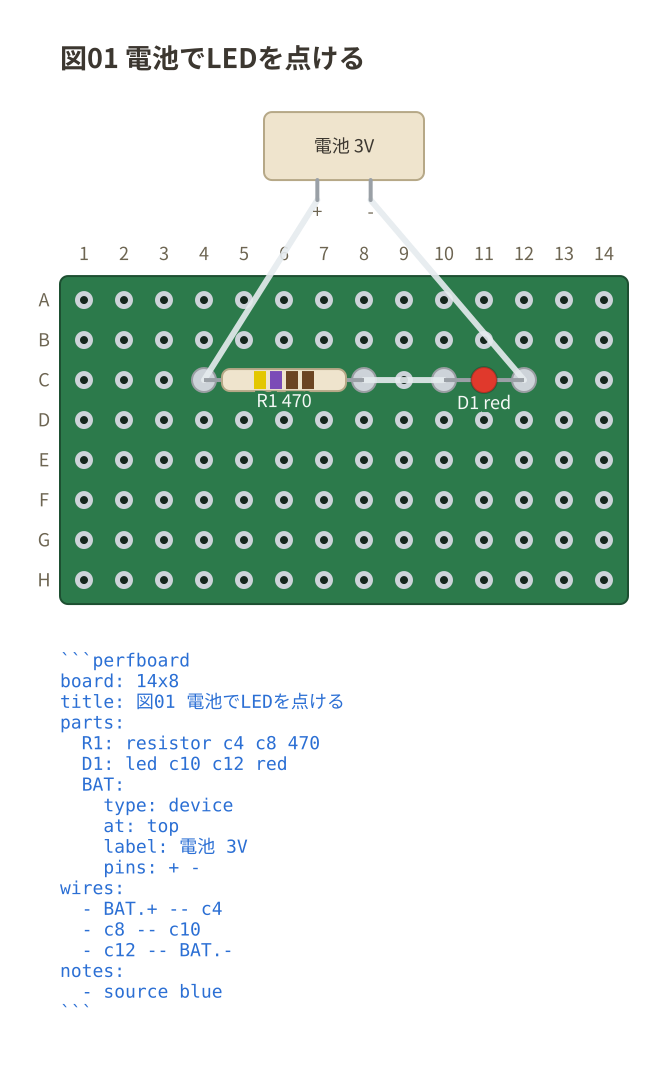
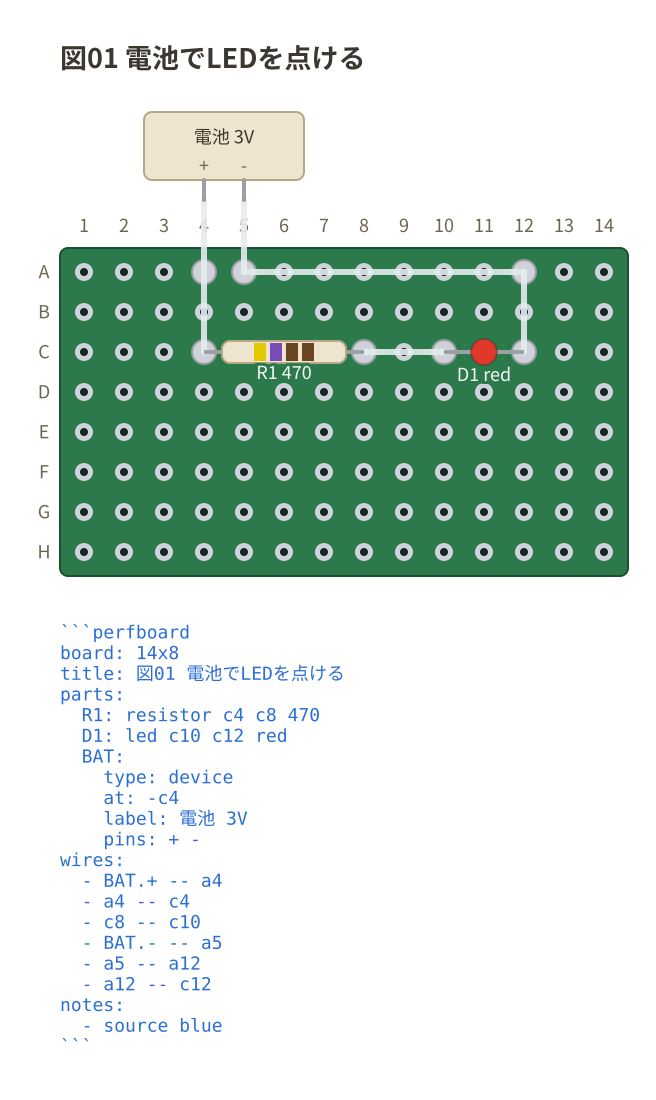
feat(perfboard-fence): 機器の足を穴の格子に載せ、足の名前を箱の内側に書く
- **番地で置いた機器の足は穴の格子に載る。** 1 本目が書いた番地の列、次が
  1 穴どなり…と並び、箱はその足の上に載る。こうすると**「その足のいちばん近い
  穴」が迷いなく決まる**ので、機器の足からまず真下 (真上) の穴へ落として、
  そこから板の上を配線できる (帯に並べたときは箱の幅で割るので穴と揃わない)
- **足の名前は箱の内側**に書く。外に出すと板の列番号や配線に重なり、
  どの足の名前なのかも遠くなる。機器の名前は足の名前とぶつからない側へ寄せた
- 例の機器も番地で置き直し、足からまず最寄りの穴へ落とす形にした

🤖 Generated with [Claude Code](https://claude.com/claude-code)

Changed region(s): [[0.061, 0.0929, 0.9756, 0.9597], [0.0915, 0.031, 0.5488, 0.0619], [0.061, 0.3096, 0.0915, 0.4334]]

diff --git a/packages/perfboard-fence/src/core/render/devices.ts b/packages/perfboard-fence/src/core/render/devices.ts
@@ -60,13 +60,19 @@ export function layoutDevices(devices: readonly DeviceSpec[], layout: Layout): D
     const height = DEVICE_BOX_HEIGHT;
     // 板より上にあるなら足は下へ、下にあるなら足は上へ (板の側へ出す)。
     const above = at.y < layout.board.y + layout.board.height / 2;
-    const box: Band = { x: at.x, y: at.y, width, height };
+
+    // **足は穴の格子に載せる。** 1 本目が書いた番地の列に来て、そこから 1 穴ずつ。
+    // こうすると「その足のいちばん近い穴」が迷いなく決まり、配線を穴の番地で
+    // 書ける (帯に並べたときは箱の幅で割るので、穴とは揃わない)。
+    const columns = device.pins.map((_, pin) => layout.colX(address.col + pin));
+    const first = columns[0] ?? at.x;
+    const last = columns[columns.length - 1] ?? at.x;
+    const box: Band = { x: (first + last) / 2 - width / 2, y: at.y, width, height };
     const tip = above ? box.y + box.height + LEG : box.y - LEG;
-    const step = width / (device.pins.length + 1);
     placed.push({
       device: { ...device, at: above ? 'top' : 'bottom' },
       box,
-      pins: new Map(device.pins.map((name, pin) => [name, { x: box.x + step * (pin + 1), y: tip }])),
+      pins: new Map(device.pins.map((name, pin) => [name, { x: columns[pin] ?? at.x, y: tip }])),
     });
   }
 
@@ -126,22 +132,26 @@ function renderDevice(placed: PlacedDevice, theme: Theme): string {
     fill: theme.palette.body, stroke: theme.palette.bodyEdge, 'stroke-width': 1,
   });
 
-  // 足は箱の縁から出て、名前はその先の外側。**箱の中に書くと題と重なる。**
+  // 足は箱の縁から出る。**名前は箱の内側、足の付け根**に書く — 外側に書くと
+  // 板の列番号や配線に重なり、どの足の名前なのかも遠くなる。
   const edge = top ? box.y + box.height : box.y;
+  const size = theme.metrics.textSize;
+  const nameY = top ? edge - 4 : edge + size;
   const legs = [...placed.pins.entries()]
     .map(([name, point]) => element('line', {
       x1: num(point.x), y1: num(edge), x2: num(point.x), y2: num(point.y),
       stroke: theme.palette.lead, 'stroke-width': 2, 'stroke-linecap': 'round',
-    }) + svgText(point.x, point.y + (top ? PIN_LABEL - 3 : -4), name, {
+    }) + svgText(point.x, nameY, name, {
       fill: theme.palette.label,
-      'font-size': num(theme.metrics.textSize),
+      'font-size': num(size),
     }))
     .join('');
 
-  const label = fit(device.label, box.width / theme.metrics.textSize);
-  const caption = svgText(box.x + box.width / 2, box.y + box.height / 2, label, {
+  // 機器の名前は足の名前とぶつからない側へ寄せる (上の機器なら箱の上寄り)。
+  const label = fit(device.label, box.width / size);
+  const caption = svgText(box.x + box.width / 2, box.y + box.height / 2 + (top ? -size * 0.5 : size * 0.9), label, {
     fill: theme.palette.caption,
-    'font-size': num(theme.metrics.textSize),
+    'font-size': num(size),
     'dominant-baseline': 'middle',
   });
 

diff --git a/packages/perfboard-fence/src/core/render/devices.test.ts b/packages/perfboard-fence/src/core/render/devices.test.ts
@@ -94,7 +94,7 @@ describe('renderDevices', () => {
 });
 
 describe('番地で置いた機器', () => {
-  test('puts the box where it was written, not in the band', () => {
+  test('puts the device where it was written, not in the band', () => {
     // 帯に並べると、書いた人が置きたかった場所と関係なく散る。
     const board = createBoard({ cols: 16, rows: 8 });
     const layout = createLayout(board, { deviceTop: false, deviceBottom: false });
@@ -102,8 +102,13 @@ describe('番地で置いた機器', () => {
     const at = layout.point(parseAddress('-c2')!);
 
     expect(placed).toHaveLength(1);
-    expect(placed[0]?.box.x).toBe(at.x);
     expect(placed[0]?.box.y).toBe(at.y);
+    // **足は穴の格子に載る。** 1 本目が書いた番地の列、次は 1 穴どなり。
+    expect(placed[0]?.pins.get('sig')?.x).toBe(layout.colX(2));
+    expect(placed[0]?.pins.get('gnd')?.x).toBe(layout.colX(3));
+    // 箱はその足の上に centered で載る。
+    expect(placed[0]!.box.x).toBeLessThan(layout.colX(2));
+    expect(placed[0]!.box.x + placed[0]!.box.width).toBeGreaterThan(layout.colX(3));
   });
 
   test('turns the legs toward the board, whichever side it was put on', () => {

diff --git a/packages/perfboard-fence/docs/01-syntax.md b/packages/perfboard-fence/docs/01-syntax.md
@@ -355,9 +355,14 @@ wires:
 | `pins` | 足の名前。空白区切りか YAML の並び | — |
 
 **`at:` に番地を書くと、その場所に置く。** 板の外の番地なので `-e1` (板の上) や
-`n5` (板の下) のように書く ([番地](#番地))。箱の**左上がその番地**に来て、足は板の
-側へ出る。帯に並べると置きたかった場所と関係なく散るので、**並べ方を自分で決めたい
-ときはこちら**。板の寸法には機器のはみ出すぶんも入るので、題や書き出しと重ならない。
+`n5` (板の下) のように書く ([番地](#番地))。**足は穴の格子に載り**、1 本目が書いた
+番地の列、次が 1 穴どなり…と並ぶ。箱はその足の上に載る。こうすると
+**「その足のいちばん近い穴」が迷いなく決まる**ので、機器の足からまず真下 (真上) の
+穴へ落として、そこから板の上を配線できる。
+
+帯に並べると置きたかった場所と関係なく散るので、**並べ方を自分で決めたいときは
+番地で書く**。板の寸法には機器のはみ出すぶんも入るので、題や書き出しと重ならない。
+**足の名前は箱の内側**に書く — 外に出すと板の列番号や配線に重なる。
 
 **足は `+ -` のように空白で区切って 1 行に書ける。** YAML の並び (`[+, -]`) に
 書くと `-` に空白が続くと箱の始まりに読まれて `["+", "-"]` と括らされる。電池の端子を

diff --git a/packages/perfboard-fence/examples/07-device.md b/packages/perfboard-fence/examples/07-device.md
@@ -11,13 +11,16 @@ parts:
   D1: led c10 c12 red
   BAT:
     type: device
-    at: top
+    at: -c4
     label: 電池 3V
     pins: + -
 wires:
-  - BAT.+ -- c4
+  - BAT.+ -- a4
+  - a4 -- c4
   - c8 -- c10
-  - c12 -- BAT.-
+  - BAT.- -- a5
+  - a5 -- a12
+  - a12 -- c12
 notes:
   - source blue
 ```
@@ -54,6 +57,10 @@ N3 : D1.2, BAT.-
 下の図は `-e1` (板の上) と `n5` (板の下)。帯に並べると置きたかった場所と関係なく
 散るので、**並べ方を自分で決めたいときは番地で書く**。
 
+**足は穴の格子に載る**ので、機器の足からまず真下 (真上) の穴へ落として、そこから
+板の上を配線できる (`IN.sig -- a1`、`a1 -- b1`…)。斜めに 1 本で引くより、
+どの穴を通っているかが読みやすい。
+
 ```perfboard
 board: 16x10
 title: 図02 入りと出を上下に分ける
@@ -72,12 +79,19 @@ parts:
     label: スピーカー 8Ω
     pins: 1 2
 wires:
-  - IN.sig -- b3
+  - IN.sig -- a1
+  - a1 -- b1
+  - b1 -- b3
   - b7 -- b5
   - b5 -- d5
-  - IN.gnd -- h3
-  - h5 -- SPK.1
-  - g8 -- SPK.2
+  - IN.gnd -- a2
+  - a2 -- h2
+  - h2 -- h3
+  - SPK.1 -- j5
+  - j5 -- h5
+  - SPK.2 -- j6
+  - j6 -- j8
+  - j8 -- g8
 notes:
   - source blue
 ```

diff --git a/packages/perfboard-fence/CHANGELOG.md b/packages/perfboard-fence/CHANGELOG.md
@@ -78,7 +78,11 @@
   離して**置く (詰めると穴の列の続きに見える)。板をマップで書くときは
   `size:` に大きさが要る (当てて描くと、書いていない板の図が黙って出る)。
 
-- **板の外の機器を番地で置けるようにした** (`at: -e1` のように)。`top` / `bottom`
+- **機器の足の名前を箱の内側に書くようにした。** 外に出すと板の列番号や配線に
+  重なり、どの足の名前かも遠くなる。
+- **板の外の機器を番地で置けるようにした** (`at: -e1` のように)。番地で置いた機器の
+  **足は穴の格子に載る** (1 本目が書いた番地の列、次が 1 穴どなり) ので、
+  「その足のいちばん近い穴」が迷いなく決まり、そこから板の上を配線できる。`top` / `bottom`
   なら今までどおり帯に並び、番地を書けば**箱の左上がその番地**に来る。帯に並べると
   置きたかった場所と関係なく散るので、並べ方を自分で決めたいときに使う。
   **機器のはみ出すぶんは板の寸法に入れる** — 入れないと、上は題に、下は書き出しや
